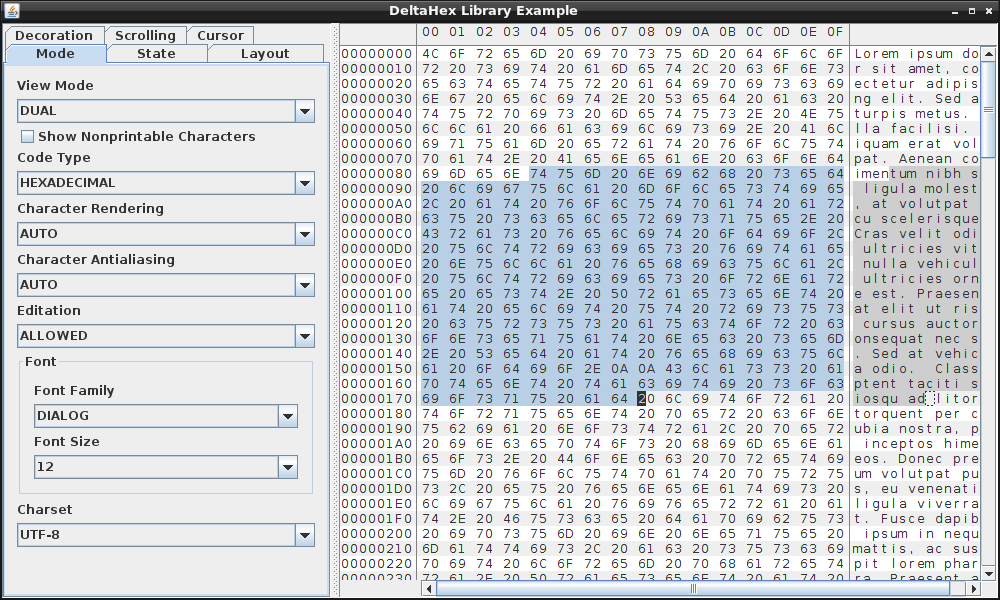
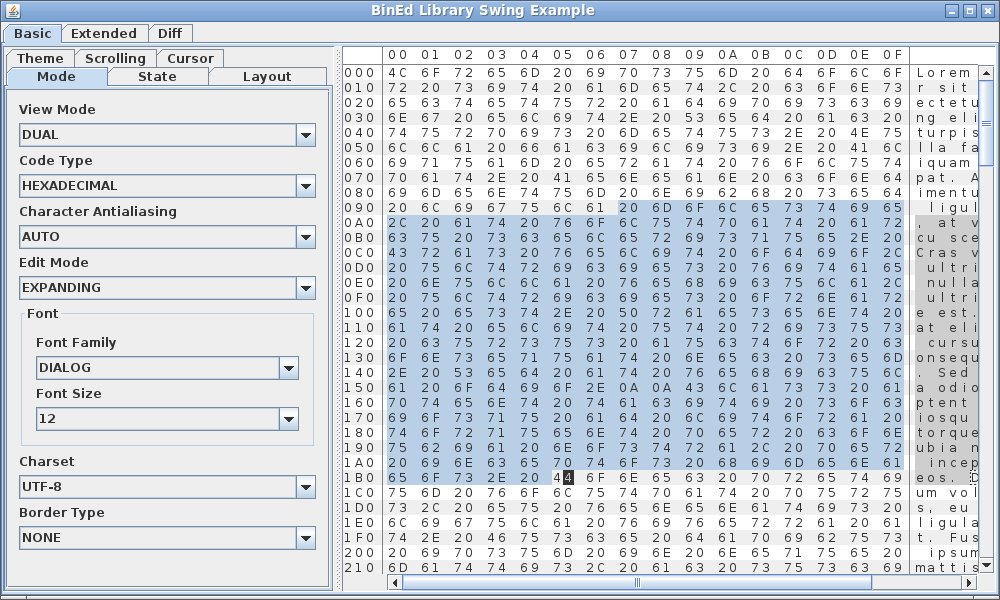
Library 0.2.0 released

diff --git a/library/pages/main.php b/library/pages/main.php
@@ -5,9 +5,9 @@ function echoDownload($arr) {
     echo '<a href="../download/?'.$value['file'].'" title="Download '.$value['name'].'"><img src="../images/filetypes/'.$value['icon'].'.png" alt="['. strtoupper($value['icon']).']" width="16" height="16"/> '.$value['ver'].'</a> ['.$value['date'].']';
   }
 } ?><div id="content">
-<h1 id="variant">Variant: Library</h1>
+<h1 id="variant">Variant: Library / Component</h1>
 
-<p>Free and open source library for hexadecimal component written in Java.</p>
+<p>Free and open source library for binary/hexadecimal viewer/editor component written in Java.</p>
 <p><img src="../images/example_screenshot.png" alt="Example usage screenshot" title="Example usage screenshot"/></p>
 
 <h2 id="downloads">Downloads</h2>
@@ -33,6 +33,11 @@ function echoDownload($arr) {
 <li>Delta mode - Only changes are stored in memory</li>
 </ul>
 
+<h2>Limitations</h2>
+<ul>
+<li>Only Swing components are currently usable</li>
+</ul>
+
 <h2 id="usage">Usage</h2>
 <p>Example component usage screenshot:</p>
 <p><img src="images/example_screenshot.png" alt="Example screenshot" title="Example screenshot"/></p>
@@ -41,17 +46,17 @@ function echoDownload($arr) {
 
 <ul><li>Download library and include it with your project</li>
 <li>Download sources and modify it for your needs</li>
-<li>Import library using Maven: <strong>org.exbin.deltahex:deltahex-swing:0.1.2</strong>
+<li>Import library using Maven: <strong>org.exbin.bined:bined-swing:0.2.0</strong>
 </li></ul>
 
 <p>To use the component, create new instance and fill it with some data.</p>
 <div class="code_example">
-<!-- HTML generated using hilite.me --><div style="background: #ffffff; overflow:auto;width:auto;border:solid gray;border-width:.1em .1em .1em .8em;padding:.2em .6em;"><pre style="margin: 0; line-height: 125%"><span style="color: #008800; font-weight: bold">public</span> <span style="color: #008800; font-weight: bold">class</span> <span style="color: #BB0066; font-weight: bold">DeltaHexExample</span> <span style="color: #333333">{</span>
+<!-- HTML generated using hilite.me --><div style="background: #ffffff; overflow:auto;width:auto;border:solid gray;border-width:.1em .1em .1em .8em;padding:.2em .6em;"><pre style="margin: 0; line-height: 125%"><span style="color: #008800; font-weight: bold">public</span> <span style="color: #008800; font-weight: bold">class</span> <span style="color: #BB0066; font-weight: bold">BinEdExample</span> <span style="color: #333333">{</span>
 
     <span style="color: #008800; font-weight: bold">public</span> <span style="color: #008800; font-weight: bold">static</span> <span style="color: #333399; font-weight: bold">void</span> <span style="color: #0066BB; font-weight: bold">main</span><span style="color: #333333">(</span>String<span style="color: #333333">[]</span> args<span style="color: #333333">)</span> <span style="color: #333333">{</span>
-        <span style="color: #008800; font-weight: bold">final</span> JFrame frame <span style="color: #333333">=</span> <span style="color: #008800; font-weight: bold">new</span> JFrame<span style="color: #333333">(</span><span style="background-color: #fff0f0">&quot;DeltaHex Frame&quot;</span><span style="color: #333333">);</span>
+        <span style="color: #008800; font-weight: bold">final</span> JFrame frame <span style="color: #333333">=</span> <span style="color: #008800; font-weight: bold">new</span> JFrame<span style="color: #333333">(</span><span style="background-color: #fff0f0">&quot;BinEd Frame&quot;</span><span style="color: #333333">);</span>
         CodeArea codeArea <span style="color: #333333">=</span> <span style="color: #008800; font-weight: bold">new</span> CodeArea<span style="color: #333333">();</span>
-        codeArea<span style="color: #333333">.</span><span style="color: #0000CC">setData</span><span style="color: #333333">(</span><span style="color: #008800; font-weight: bold">new</span> ByteArrayEditableData<span style="color: #333333">(</span><span style="color: #008800; font-weight: bold">new</span> <span style="color: #333399; font-weight: bold">byte</span><span style="color: #333333">[]{</span><span style="color: #0000DD; font-weight: bold">1</span><span style="color: #333333">,</span> <span style="color: #0000DD; font-weight: bold">2</span><span style="color: #333333">,</span> <span style="color: #0000DD; font-weight: bold">3</span><span style="color: #333333">}));</span>
+        codeArea<span style="color: #333333">.</span><span style="color: #0000CC">setContentData</span><span style="color: #333333">(</span><span style="color: #008800; font-weight: bold">new</span> ByteArrayEditableData<span style="color: #333333">(</span><span style="color: #008800; font-weight: bold">new</span> <span style="color: #333399; font-weight: bold">byte</span><span style="color: #333333">[]{</span><span style="color: #0000DD; font-weight: bold">1</span><span style="color: #333333">,</span> <span style="color: #0000DD; font-weight: bold">2</span><span style="color: #333333">,</span> <span style="color: #0000DD; font-weight: bold">3</span><span style="color: #333333">}));</span>
         frame<span style="color: #333333">.</span><span style="color: #0000CC">add</span><span style="color: #333333">(</span>codeArea<span style="color: #333333">);</span>
         frame<span style="color: #333333">.</span><span style="color: #0000CC">setSize</span><span style="color: #333333">(</span><span style="color: #0000DD; font-weight: bold">1000</span><span style="color: #333333">,</span> <span style="color: #0000DD; font-weight: bold">600</span><span style="color: #333333">);</span>
         frame<span style="color: #333333">.</span><span style="color: #0000CC">setVisible</span><span style="color: #333333">(</span><span style="color: #008800; font-weight: bold">true</span><span style="color: #333333">);</span>

diff --git a/download/download-list.php b/download/download-list.php
@@ -4,7 +4,7 @@
     if ($group == 'editor' || is_null($group)) {
       $variants = array();
       $stb_ver = '0.2.0';
-      $stb_date = '2019-08-18';
+      $stb_date = '2019-08-26';
       $dev_ver = '0.2.1';
       $dev_date = '2021-03-15';
 
@@ -55,8 +55,8 @@
 
     if ($group == 'basic-editor' || is_null($group)) {
       $variants = array();
-      $stb_ver = '0.1.3';
-      $stb_date = '2017-10-22';
+      $stb_ver = '0.2.0';
+      $stb_date = '2021-08-29';
       $dev_ver = '0.2.0';
       $dev_date = '2019-09-26';
 
@@ -64,7 +64,7 @@
       $variants['stb'][0]['ver'] = $stb_ver;
       $variants['stb'][0]['date'] = $stb_date;
       $variants['stb'][0]['icon'] = 'jar';
-      $variants['stb'][0]['file'] = 'deltahex-editor-basic-'.$stb_ver.'.jar';
+      $variants['stb'][0]['file'] = 'bined-editor-basic-'.$stb_ver.'.jar';
 
       $variants['dev'][0]['name'] = 'Basic Editor';
       $variants['dev'][0]['ver'] = $dev_ver;
@@ -93,16 +93,16 @@
 
     if ($group == 'library' || is_null($group)) {
       $variants = array();
-      $stb_ver = '0.1.3';
-      $stb_date = '2017-10-22';
+      $stb_ver = '0.2.0';
+      $stb_date = '2021-08-29';
       $dev_ver = '0.2.0';
-      $dev_date = '2020-04-12';
+      $dev_date = '2021-08-01';
 
       $variants['stb'][0]['name'] = 'Library';
       $variants['stb'][0]['ver'] = $stb_ver;
       $variants['stb'][0]['date'] = $stb_date;
       $variants['stb'][0]['icon'] = 'zip';
-      $variants['stb'][0]['file'] = 'deltahex-java-'.$stb_ver.'.zip';
+      $variants['stb'][0]['file'] = 'bined-lib-java-'.$stb_ver.'.zip';
 
       $variants['dev'][0]['name'] = 'Library';
       $variants['dev'][0]['ver'] = $dev_ver;
@@ -115,10 +115,10 @@
 
     if ($group == 'netbeans-plugin' || is_null($group)) {
       $variants = array();
-      $stb_ver = '0.2.1';
-      $stb_date = '2019-09-04';
+      $stb_ver = '0.2.2';
+      $stb_date = '2021-08-29';
       $dev_ver = '0.2.2';
-      $dev_date = '2021-04-30';
+      $dev_date = '2021-08-28';
 
       $variants['stb'][0]['name'] = 'Plugin';
       $variants['stb'][0]['ver'] = $stb_ver;
@@ -143,7 +143,7 @@
       $stb_ver = '0.2.4';
       $stb_date = '2021-04-11';
       $dev_ver = '0.2.5';
-      $dev_date = '2021-04-30';
+      $dev_date = '2021-08-17';
 
       $variants['stb'][0]['name'] = 'Plugin';
       $variants['stb'][0]['ver'] = $stb_ver;

diff --git a/netbeans-plugin/pages/download.php b/netbeans-plugin/pages/download.php
@@ -8,7 +8,7 @@ function echoDownload($arr) {
 
 $sources = array();
 
-$ver = '0.2.1';
+$ver = '0.2.2';
 
 $sources[0]['name'] = 'Sources';
 $sources[0]['ver'] = $ver;
@@ -17,6 +17,20 @@ $sources[0]['file'] = 'org-exbin-bined-netbeans-'.$ver.'.src.zip';
 
 $old_releases = array();
 $old_sources = array();
+
+$ver = '0.2.1';
+$date = '2019-09-04';
+
+$old_releases[9][0]['name'] = 'Plugin';
+$old_releases[9][0]['ver'] = $ver;
+$old_releases[9][0]['date'] = $date;
+$old_releases[9][0]['icon'] = 'netbeans';
+$old_releases[9][0]['file'] = 'org-exbin-bined-netbeans-'.$ver.'.nbm';
+
+$old_sources[9][0]['name'] = 'Sources';
+$old_sources[9][0]['ver'] = $ver;
+$old_sources[9][0]['icon'] = 'zip';
+$old_sources[9][0]['file'] = 'org-exbin-bined-netbeans-'.$ver.'.src.zip';
 
 $ver = '0.2.0';
 $date = '2019-04-13';
@@ -163,12 +177,12 @@ $old_sources[0][0]['file'] = 'org-exbin-deltahex-netbeans-'.$ver.'.src.zip';
 </table>
 
 <h2 id="latest_chages">Latest Changes</h2>
-<ul><li>Action to show debug variables as binary data</li>
-<li>Minor GUI improvements</li>
-<li>Context aware popup menu</li>
-<li>Go-to dialog position to support position from end</li>
-<li>Go-to dialog position to support different numerical bases</li>
-<li>Support for ENTER key in preview section</li></ul>
+<ul><li>Minor GUI improvements</li>
+<li>Switched to Gradle building</li>
+<li>Action to show debug variables as binary data in ToolTip view</li>
+<li>Support for multiple decoders in debugging view</li>
+<li>Display the number of bytes selected</li>
+<li>Added string field in values panel</li></ul>
 
 <h2 id="development">Development Version</h2>
 <p>Development versions are likely untested/broken and at your own risk.</p>
@@ -181,6 +195,11 @@ $old_sources[0][0]['file'] = 'org-exbin-deltahex-netbeans-'.$ver.'.src.zip';
 <h2 id="older_releases">Older Releases</h2>
 <table class="downloads">
 <tr><th>Release&nbsp;</th><th>Files&nbsp;</th><th>Sources&nbsp;</th></tr>
+<tr>
+  <td>NetBeans Platform Plugin <?php echo $old_releases[9][0]['ver']; ?></td>
+  <td><?php echoDownload($old_releases[9]); ?></td>
+  <td><?php echoDownload($old_sources[9]); ?></td>
+</tr>
 <tr>
   <td>NetBeans Platform Plugin <?php echo $old_releases[8][0]['ver']; ?></td>
   <td><?php echoDownload($old_releases[8]); ?></td>

diff --git a/pages/news.php b/pages/news.php
@@ -44,6 +44,23 @@ if ($count == 0) {
 
 <h2 id="news">News</h2>
 <ul>
+<li><p><strong>2021-08-29:</strong> Bined NetBeans Plugin 0.2.2 Released</p>
+<ul><li>Minor GUI improvements</li>
+<li>Switched to Gradle building</li>
+<li>Action to show debug variables as binary data in ToolTip view</li>
+<li>Support for multiple decoders in debugging view</li>
+<li>Display the number of bytes selected</li>
+<li>Added string field in values panel</li></ul></li>
+
+<li><p><strong>2021-08-29:</strong> BinEd Library 0.2.0 Released</p>
+<ul><li>Renamed to BinEd</li>
+<li>Support for half-size space</li>
+<li>Support for layout, theme and colors profiles</li>
+<li>Context aware popup menu</li>
+<li>Support for ENTER key in preview section</li>
+</ul></li>
+
+
 <li><p><strong>2021-04-11:</strong> BinEd IntelliJ Plugin 0.2.4 Released</p>
 <ul><li>Added string field in values panel</li>
 <li>Fixed 2021.1: Can't close any tabs once a binary file is opened</li>
@@ -63,25 +80,6 @@ if ($count == 0) {
 <li>Fixed NullPointerException when trying to hex-view bytearray in Debug mode</li>
 <li>Fixed Editor stops responding when I use Find</li>
 <li>Fixed Cursor position is lost if you switch tabs</li>
-</ul></li>
-
-<li><p><strong>2019-09-04:</strong> BinEd NetBeans Plugin 0.2.1 Released</p>
-<ul><li>Action to show debug variables as binary data</li>
-<li>Minor GUI improvements</li>
-<li>Context aware popup menu</li>
-<li>Go-to dialog position to support position from end</li>
-<li>Go-to dialog position to support different numerical bases</li>
-<li>Support for ENTER key in preview section</li>
-</ul></li>
-
-<li><p><strong>2019-08-22:</strong> BinEd IntelliJ Plugin 0.2.1 Released</p>
-<ul><li>Minor GUI improvements</li>
-<li>Context aware popup menu</li>
-<li>Go-to dialog position to support position from end</li>
-<li>Go-to dialog position to support different numerical bases</li>
-<li>Support for ENTER key in preview section</li>
-<li>Minor fix to view of native Java debug values</li>
-<li>Minor fix to integration</li>
 </ul></li>
 
 </ul>

diff --git a/library/pages/download.php b/library/pages/download.php
@@ -8,6 +8,15 @@ function echoDownload($arr) {
 
 $old_releases = array();
 
+$ver = '0.1.3';
+$date = '2017-10-22';
+
+$old_releases[3][0]['name'] = 'Library';
+$old_releases[3][0]['ver'] = $ver;
+$old_releases[3][0]['date'] = $date;
+$old_releases[3][0]['icon'] = 'zip';
+$old_releases[3][0]['file'] = 'deltahex-java-'.$ver.'.zip';
+
 $ver = '0.1.2';
 $date = '2017-01-07';
 
@@ -46,10 +55,11 @@ $old_releases[0][0]['file'] = 'deltahex-java-'.$ver.'.zip';
 
 <h2 id="latest_changes">Latest Changes</h2>
 <p>
-<ul><li>Fixed behavior for high precision wheel scrolling</li>
-<li>Code colorization by byte value</li>
-<li>Added values panel</li>
-<li>Various minor fixes</li>
+<ul><li>Renamed to BinEd</li>
+<li>Support for half-size space</li>
+<li>Support for layout, theme and colors profiles</li>
+<li>Context aware popup menu</li>
+<li>Support for ENTER key in preview section</li>
 </ul></p>
 
 <h2 id="development">Development Version</h2>
@@ -63,6 +73,10 @@ $old_releases[0][0]['file'] = 'deltahex-java-'.$ver.'.zip';
 <h2 id="older_releases">Older Releases</h2>
 <table class="downloads">
 <tr><th>Release&nbsp;</th><th>Files&nbsp;</th></tr>
+<tr>
+  <td>Library <?php echo $old_releases[3][0]['ver']; ?></td>
+  <td><?php echoDownload($old_releases[3]); ?></td>
+</tr>
 <tr>
   <td>Library <?php echo $old_releases[2][0]['ver']; ?></td>
   <td><?php echoDownload($old_releases[2]); ?></td>

diff --git a/header.php b/header.php
@@ -43,7 +43,7 @@ if (!empty($prefix)) {
       <li><a class="urldecor" style="background-image: url('<?php echo $parentPrefix; ?>images/menu/java.png');" href="<?php echo $parentPrefix; ?>editor">Editor - Swing</a><?php echo @$submenu_editor; ?></li>
       <li><a class="urldecor" style="background-image: url('<?php echo $parentPrefix; ?>images/ref/android.png');" href="<?php echo $parentPrefix; ?>android">Editor - Android</a><?php echo @$submenu_android; ?></li>
       <li><a class="urldecor" style="background-image: url('<?php echo $parentPrefix; ?>images/menu/jar.png');" href="<?php echo $parentPrefix; ?>basic-editor">Editor - Basic</a><?php echo @$submenu_basiceditor; ?></li>
-      <li><a class="urldecor" style="background-image: url('<?php echo $parentPrefix; ?>images/menu/package.png');" href="<?php echo $parentPrefix; ?>library">Java Libraries</a><?php echo @$submenu_library; ?></li>
+      <li><a class="urldecor" style="background-image: url('<?php echo $parentPrefix; ?>images/menu/package.png');" href="<?php echo $parentPrefix; ?>library">Library</a><?php echo @$submenu_library; ?></li>
     </ul>
   </li>
   <li><div>Extensions</div>

diff --git a/pages/older-news.php b/pages/older-news.php
@@ -1,6 +1,25 @@
 <div id="content">
 <h1 id="older_news">Older News</h1>
 <ul>
+<li><p><strong>2019-09-04:</strong> BinEd NetBeans Plugin 0.2.1 Released</p>
+<ul><li>Action to show debug variables as binary data</li>
+<li>Minor GUI improvements</li>
+<li>Context aware popup menu</li>
+<li>Go-to dialog position to support position from end</li>
+<li>Go-to dialog position to support different numerical bases</li>
+<li>Support for ENTER key in preview section</li>
+</ul></li>
+
+<li><p><strong>2019-08-22:</strong> BinEd IntelliJ Plugin 0.2.1 Released</p>
+<ul><li>Minor GUI improvements</li>
+<li>Context aware popup menu</li>
+<li>Go-to dialog position to support position from end</li>
+<li>Go-to dialog position to support different numerical bases</li>
+<li>Support for ENTER key in preview section</li>
+<li>Minor fix to view of native Java debug values</li>
+<li>Minor fix to integration</li>
+</ul></li>
+
 <li><p><strong>2019-08-18:</strong> BinEd 0.2.0 Released</p>
 <ul><li>Renamed to BinEd</li>
 <li>Updated to newer version of library</li>

diff --git a/library/pages/javadoc.php b/library/pages/javadoc.php
@@ -2,6 +2,17 @@
 <h1 id="javadoc">JavaDoc</h1>
 <p>Documentation of library generated from source codes.</p>
 
+<p>Version 0.2.0</p>
+<a href="javadoc/bined-core-0.2.0/">bined-core</a><br/>
+<a href="javadoc/bined-extended-0.2.0/">bined-delta</a><br/>
+<a href="javadoc/bined-operation-0.2.0/">bined-operation</a><br/>
+<a href="javadoc/bined-operation-swing-0.2.0/">bined-operation-swing</a><br/>
+<a href="javadoc/bined-swing-0.2.0/">bined-swing</a><br/>
+<a href="javadoc/bined-swing-extended-0.2.0/">bined-swing-extended</a><br/>
+<a href="javadoc/bined-highlight-swing-0.2.0/">bined-highlight-swing</a><br/>
+<a href="javadoc/paged_data-0.2.0/">paged_data</a><br/>
+<a href="javadoc/paged_data-delta-0.2.0/">paged_data-delta</a><br/>
+
 <p>Version 0.1.3</p>
 <a href="javadoc/deltahex-core-0.1.3/">deltahex-core</a><br/>
 <a href="javadoc/deltahex-delta-0.1.3/">deltahex-delta</a><br/>

diff --git a/netbeans-plugin/pages/main.php b/netbeans-plugin/pages/main.php
@@ -37,7 +37,8 @@ function echoDownload($arr) {
 <li>Show debug variables as binary data</li></ul>
 
 <h2 id="installation">Installation</h2>
-<p>In Tools/Plugins in Available Plugins tab search for "bined" or in Downladed tab "Add Plugins" if you want to install .nbm file.</p>
+<p>In Tools/Plugins in Available Plugins tab search for "bined" or in Downloaded tab "Add Plugins" if you want to install .nbm file.<br/>
+Current version requires NetBeans 1.10 or newer.</p>
 
 <h2 id="usage">Usage</h2>
 <p>Use "Open as Binary" action in main "File" menu or in project files context menu.<br/>

diff --git a/pages/donate.php b/pages/donate.php
@@ -15,7 +15,9 @@
 </form>
 
 <h2>Donations</h2>
-<p>List of donations (to date 2021/03):</p>
+<p>List of donations (to date 2021/07):</p>
+
+<p>-</p>
 
 </div>
 </body>
